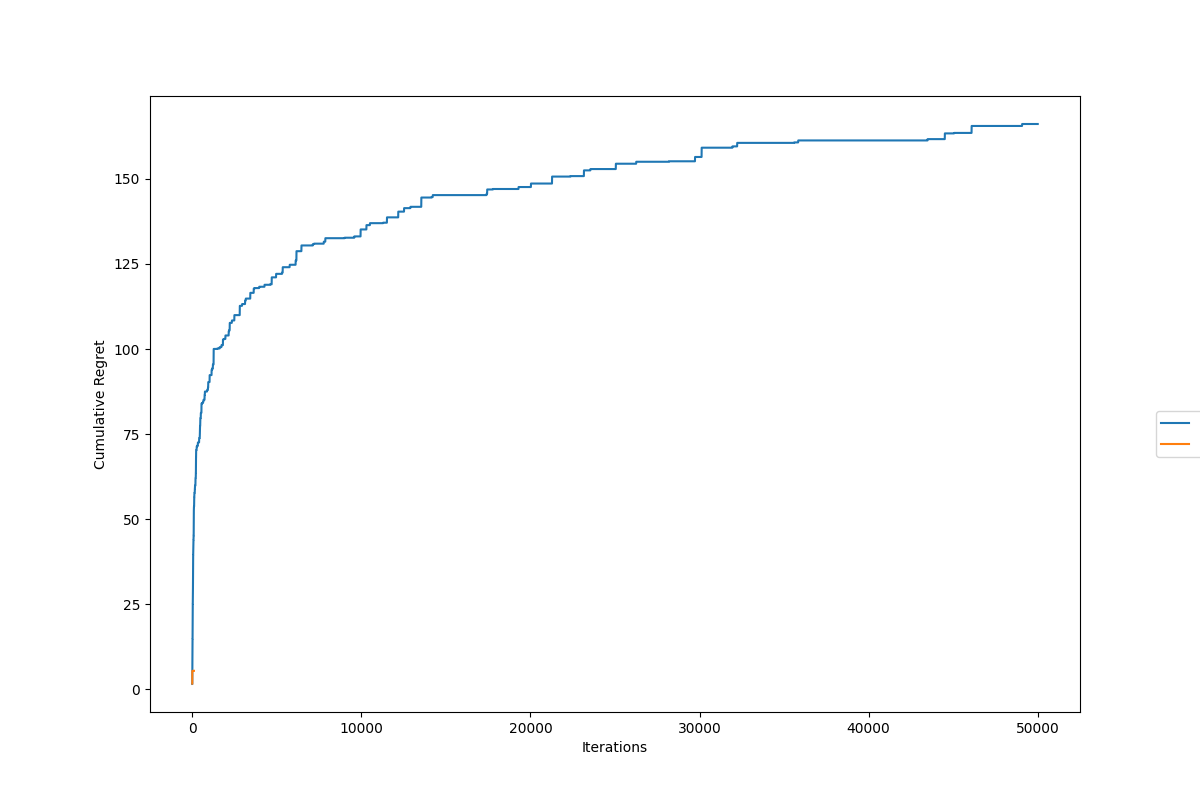
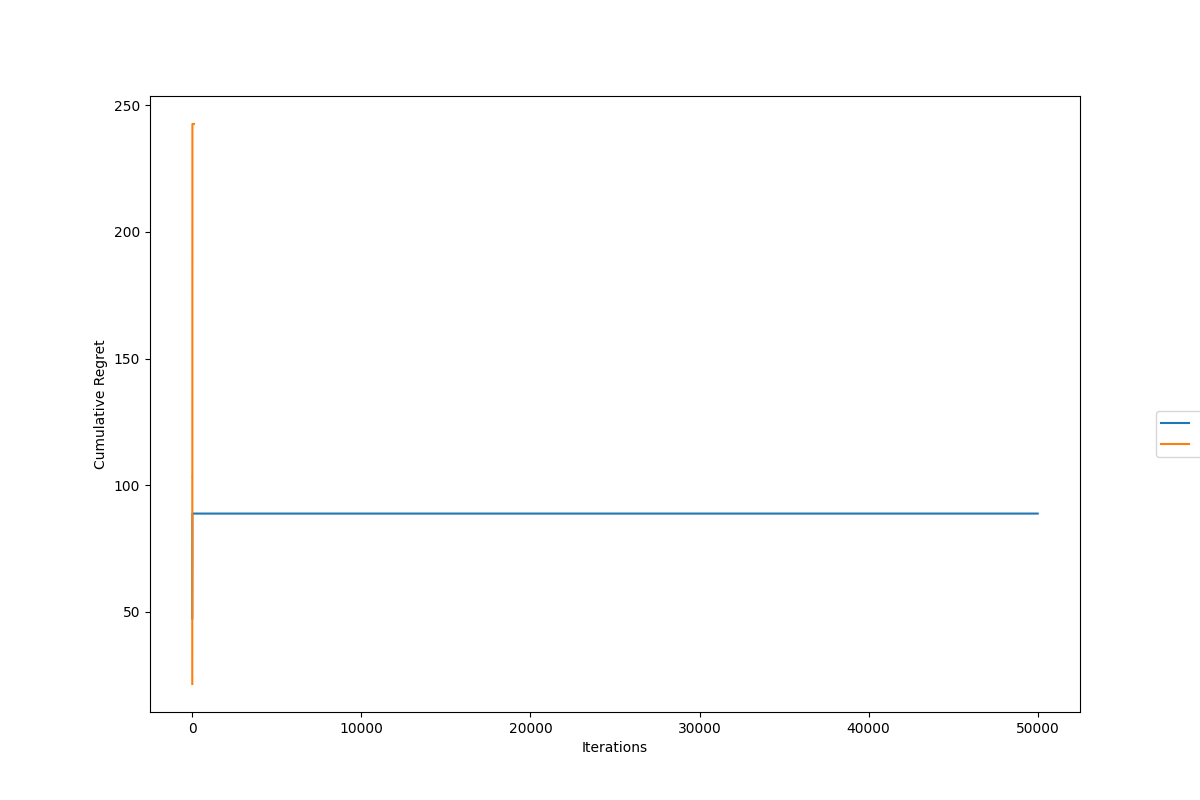
finalize implementation

diff --git a/ucb.py b/ucb.py
@@ -48,7 +48,7 @@ class gp_ucb:
         self.cumulative_regret = 0
         self.regrets = np.zeros(num_iters)
 
-    def _ucb(self, mean, variance, beta=1):
+    def _ucb(self, mean, variance, beta=4):
         return np.argmax(mean + np.sqrt(beta) * variance)
 
     def run(self):
@@ -57,13 +57,13 @@ class gp_ucb:
             model = gpflow.models.GPR(
                 data=(self.obs_x, self.obs_y), kernel=kernel)
             optimizer = gpflow.optimizers.Scipy()
-            opt_logs = optimizer.minimize(
+            _ = optimizer.minimize(
                 model.training_loss, model.trainable_variables, options=dict(maxiter=100))
 
             mean, variance = model.predict_f(self.x)
             x_t = self._ucb(mean, variance)
 
-            print(x_t, np.max(self.y), self.y[x_t])
+            print(i, np.argmax(self.y), x_t, np.max(self.y), self.y[x_t][0])
 
             self.cumulative_regret += np.max(self.y) - self.y[x_t]
             self.regrets[i] = self.cumulative_regret

diff --git a/compare.py b/compare.py
@@ -8,7 +8,7 @@ from ucb import *
 num_arms = 10
 num_iters_ucb1 = 50000
 num_iters_gp_ucb = 100
-reward_distribution = np.random.normal(0, 1, num_arms).reshape(num_arms, 1)
+reward_distribution = np.random.normal(0, 10, num_arms).reshape(num_arms, 1)
 
 ucb1 = ucb1(num_arms, num_iters_ucb1, reward_distribution)
 
